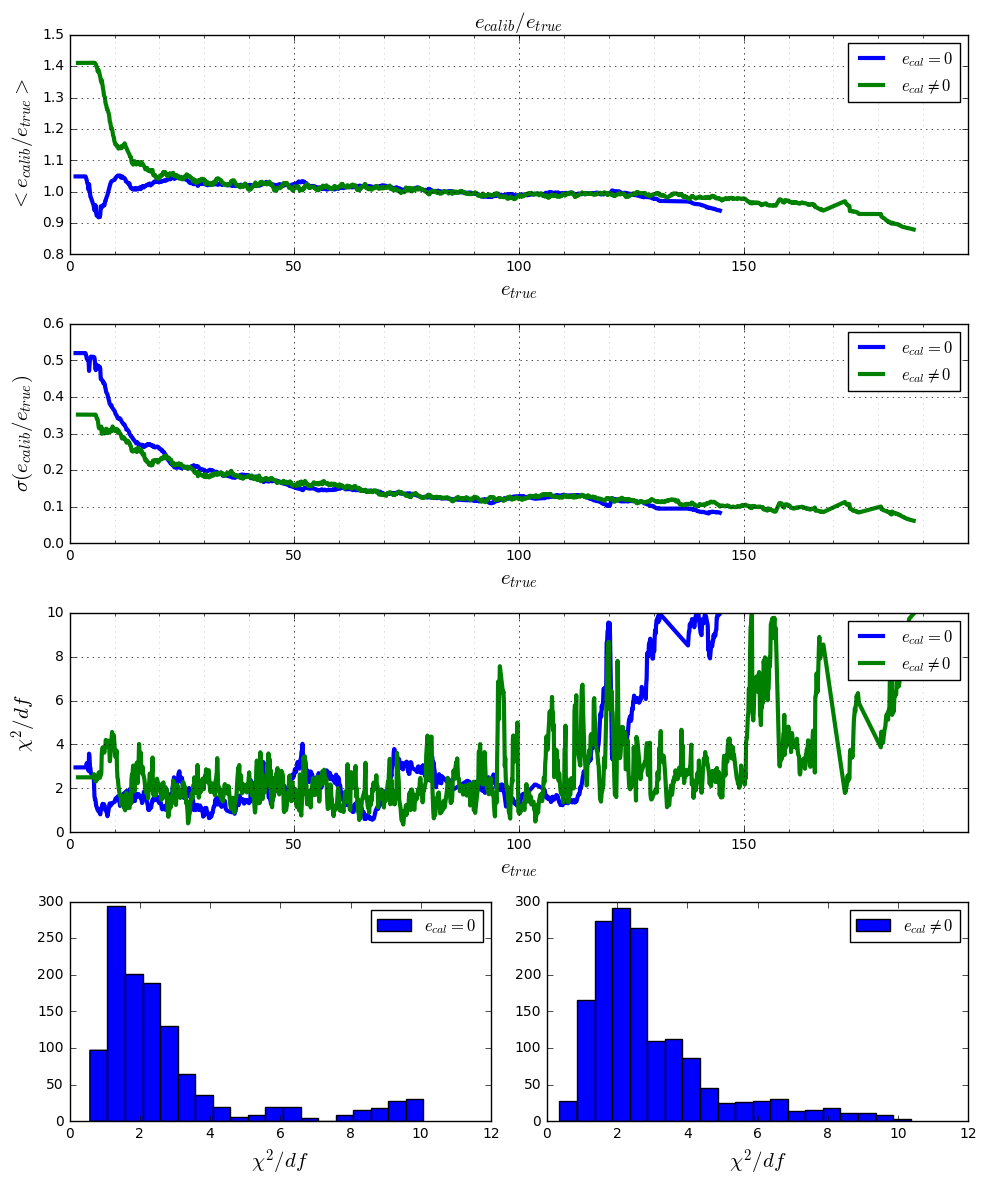
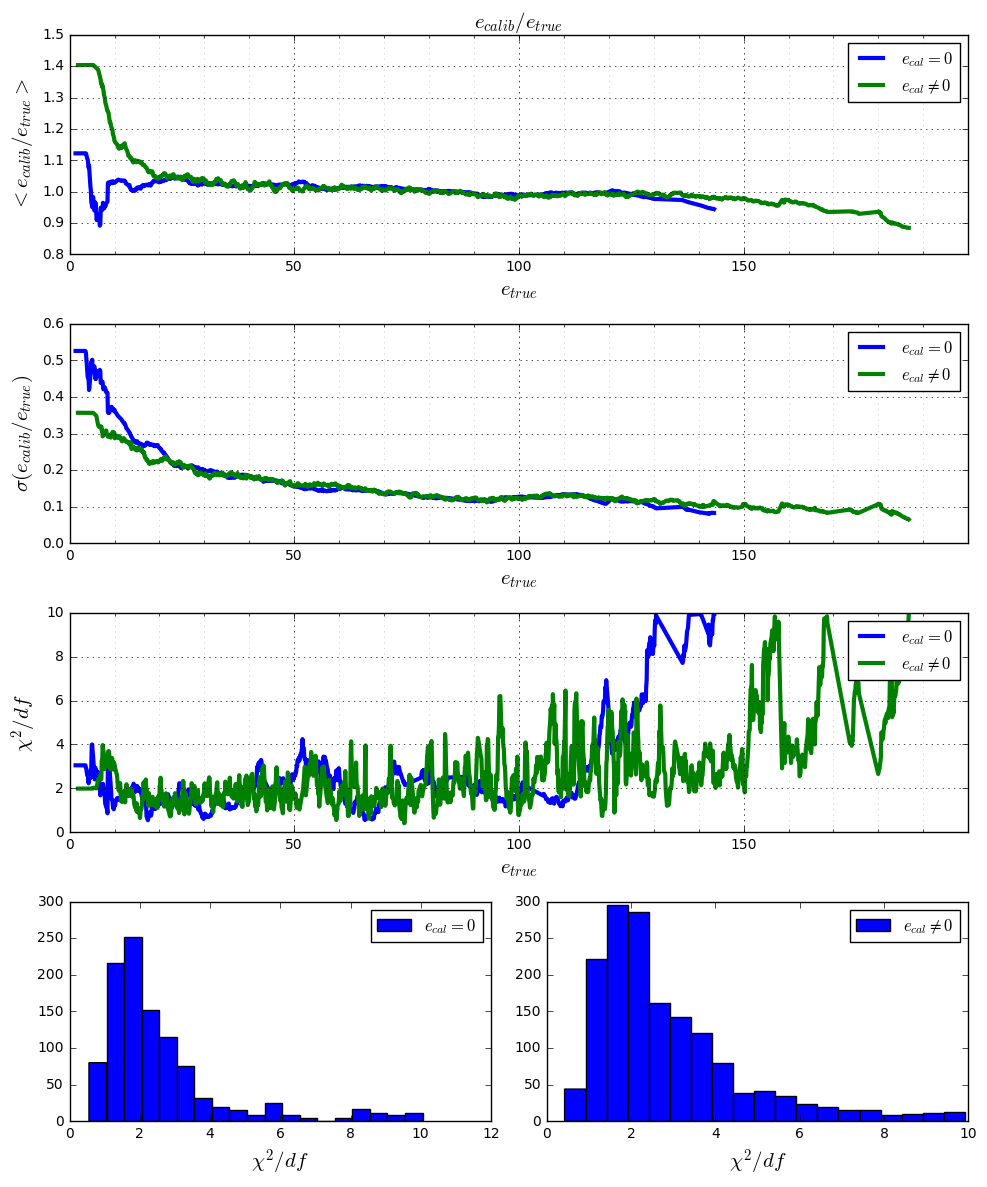
energy step

diff --git a/test_KNNGF.py b/test_KNNGF.py
@@ -159,7 +159,7 @@ fig = plt.figure(figsize=(10,4))
 #neigh for ecal == 0
 KNNGF = data1.KNNGaussianFit(n_neighbors_ecal_eq_0=n_neighbors_ecal_eq_0,
                              n_neighbors_ecal_neq_0=n_neighbors_ecal_neq_0,
-                             lim=lim,energystep=30,kind='cubic')
+                             lim=lim,energystep_ecal_eq_0=30,energystep_ecal_neq_0=14,kind='cubic')
 neigh_hcal_ecal_eq_0 = KNNGF.evaluatedPoint_neighbours_hcal_ecal_eq_0
 neigh_true_ecal_eq_0 = KNNGF.evaluatedPoint_neighbours_true_ecal_eq_0
 hcal_train = KNNGF.hcal_train[KNNGF.ecal_train == 0]
@@ -175,9 +175,6 @@ plt.axis([0,lim,0,lim])
 
 
 #neigh for ecal != 0
-KNNGF = data1.KNNGaussianFit(n_neighbors_ecal_eq_0=n_neighbors_ecal_eq_0,
-                             n_neighbors_ecal_neq_0=n_neighbors_ecal_neq_0,
-                             lim=lim,energystep=14,kind='cubic')
 neigh_ecal_ecal_neq_0 = np.array(KNNGF.evaluatedPoint_neighbours_ecal)
 neigh_ecal_ecal_neq_0 = neigh_ecal_ecal_neq_0[np.array(KNNGF.evaluatedPoint_ecal)+np.array(KNNGF.evaluatedPoint_hcal)<lim]
 neigh_hcal_ecal_neq_0 = np.array(KNNGF.evaluatedPoint_neighbours_hcal)
